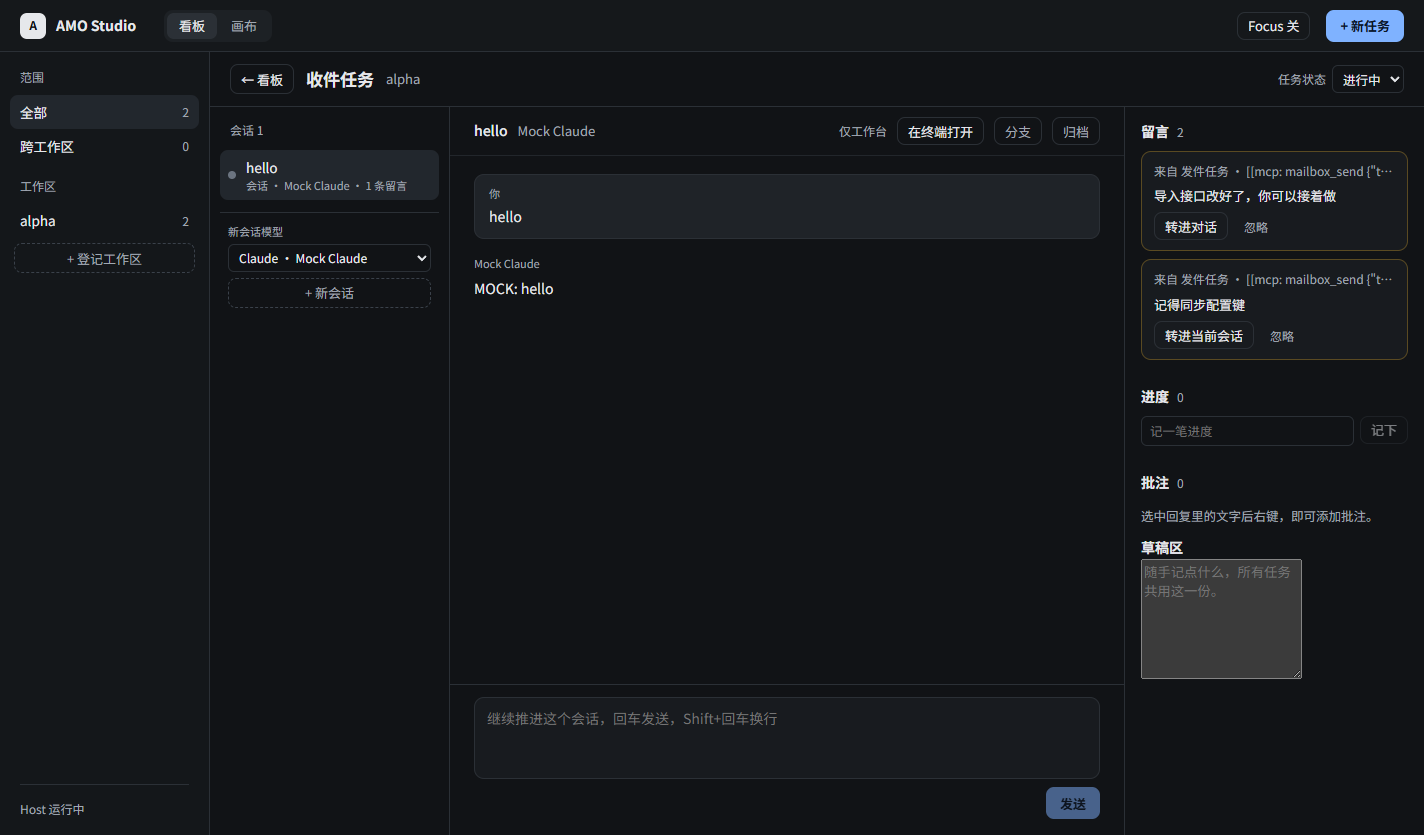
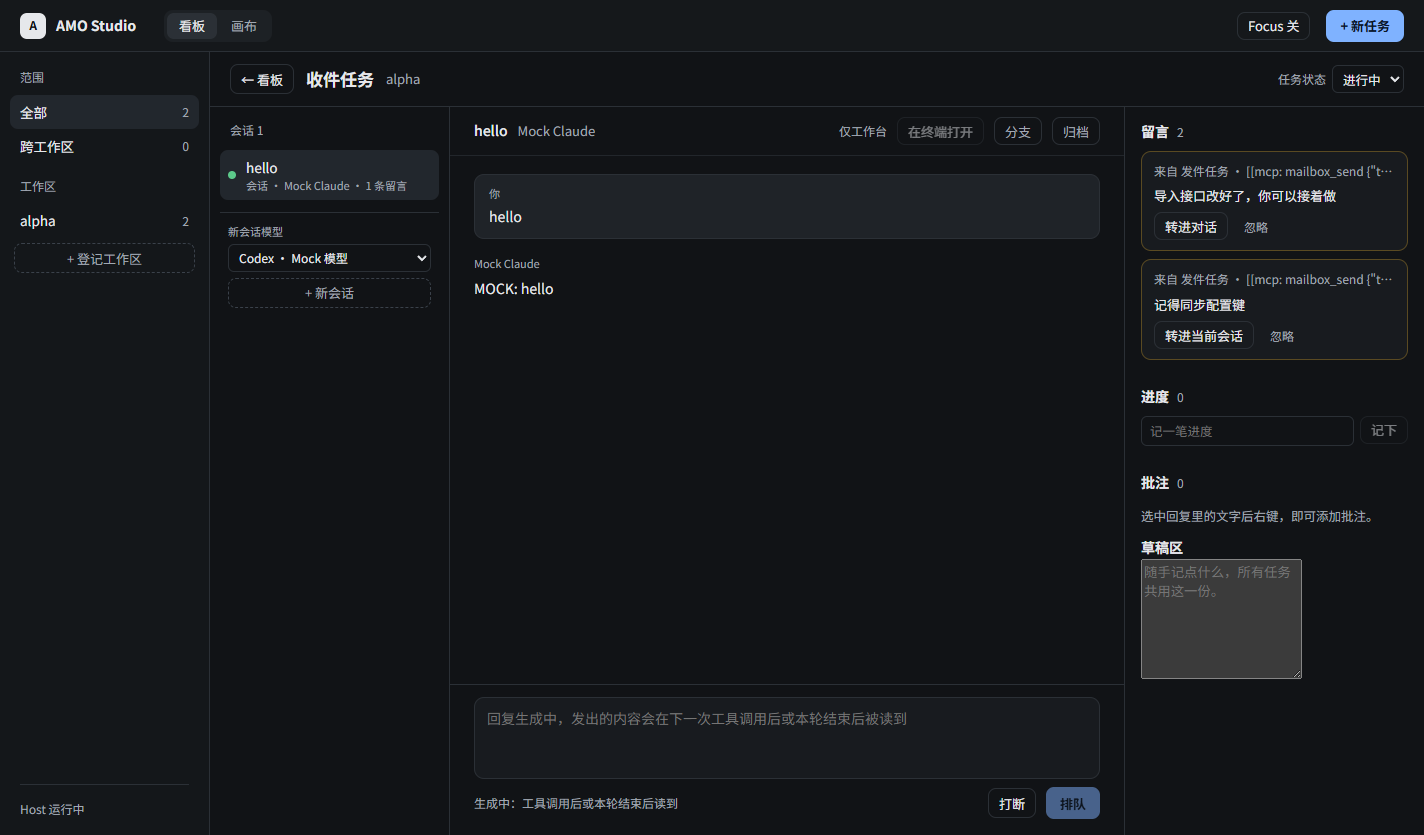
test(studio): stage 5 acceptance - Codex hands work to Claude through AMO mail (S5-07)
Also: the composer no longer wipes text typed while a send is pending;
the mock handles messages Claude folds into a turn after a tool call;
task_get returns the latest handoff and recent notes.

diff --git a/studio/e2e/tests/handoff-mail.spec.ts b/studio/e2e/tests/handoff-mail.spec.ts
@@ -1,0 +1,61 @@
+import { expect, test } from "@playwright/test";
+import type { MailMessage, Session, Task, TaskNote, Workspace } from "@amo-studio/protocol";
+import { launchStudio, screenshot, type Studio } from "./studio.js";
+
+// Stage 5 acceptance (ROADMAP): two sessions hand work over through AMO, at the person's pace.
+// A (Codex) submits a handoff summary and leaves mail for B (Claude); the person forwards the mail into B's
+// conversation; B reads A's handoff through the AMO MCP and records that it took over. Mock models only.
+
+let studio: Studio | undefined;
+
+test.afterEach(async () => {
+  await studio?.close();
+  studio = undefined;
+});
+
+test("a Codex session hands work to a Claude session through AMO mail", async () => {
+  studio = await launchStudio();
+  const { page } = studio;
+  const ws = await studio.api<Workspace>("POST", "/api/workspaces", { path: studio.workspace("alpha") });
+  const scope = { kind: "workspace", workspaceId: ws.id };
+  const summary = "交接：重试已加在 importer.ts，测试还没写，入口 tests/import";
+
+  // A finishes its part: a handoff summary on its own task.
+  const a = await studio.api<{ task: Task; session: Session }>("POST", "/api/tasks", {
+    title: "导入重试",
+    scope,
+    firstSession: { profileId: "codex-mock", text: `[[mcp: handoff_submit {"summary":"${summary}"}]]` },
+  });
+  await expect.poll(async () => (await studio!.api<TaskNote[]>("GET", `/api/tasks/${a.task.id}/notes`)).map((n) => n.kind), { timeout: 60_000 }).toEqual(["handoff"]);
+
+  // B exists; A leaves it a message pointing at the handoff.
+  const b = await studio.api<{ task: Task; session: Session }>("POST", "/api/tasks", { title: "补测试", scope, firstSession: { profileId: "claude-mock", text: "待命" } });
+  await studio.api("POST", `/api/sessions/${a.session.id}/messages`, {
+    text: `[[mcp: mailbox_send {"toSessionId":"${b.session.id}","text":"请接手补测试，交接摘要在任务 ${a.task.id}"}]]`,
+  });
+  await expect.poll(async () => (await studio!.api<MailMessage[]>("GET", `/api/mail?sessionId=${b.session.id}`)).length, { timeout: 60_000 }).toBe(1);
+
+  // Nothing reaches B until the person forwards it.
+  await page.getByTestId("task-card").filter({ hasText: "补测试" }).click();
+  await expect(page.getByTestId("msg-agent")).toHaveCount(1);
+  await expect(page.getByTestId("mail-card")).toContainText("请接手补测试");
+  await page.getByTestId("mail-card").getByRole("button", { name: "转进对话" }).click();
+  await expect(page.getByTestId("msg-agent").last()).toContainText("MOCK: [AMO 留言] 来自任务「导入重试」", { timeout: 60_000 });
+
+  // B reads A's handoff through the MCP, then records on its own task that it took over.
+  const composer = page.getByLabel("输入消息");
+  await composer.fill(`[[mcp: task_get {"taskId":"${a.task.id}"}]]`);
+  await composer.press("Enter");
+  // Wait for the MCP reply itself: A's session title (its first message) already quotes the summary.
+  await expect(page.getByTestId("msg-agent").last()).toContainText("MOCK-MCP:", { timeout: 60_000 });
+  await expect(page.getByTestId("msg-agent").last()).toContainText("重试已加在 importer.ts");
+  await composer.fill('[[mcp: task_note_add {"text":"已接手：按交接补 tests/import"}]]');
+  await composer.press("Enter");
+  await expect(page.getByTestId("task-note")).toContainText("已接手：按交接补 tests/import", { timeout: 60_000 });
+  await screenshot(studio.app, "stage-5", "S5-07-handoff", page);
+
+  // Each task keeps its own record; the mail is marked forwarded.
+  expect((await studio.api<TaskNote[]>("GET", `/api/tasks/${b.task.id}/notes`)).map((n) => [n.sessionId, n.text])).toEqual([[b.session.id, "已接手：按交接补 tests/import"]]);
+  expect((await studio.api<TaskNote[]>("GET", `/api/tasks/${a.task.id}/notes`)).map((n) => n.text)).toEqual([summary]);
+  expect((await studio.api<MailMessage[]>("GET", `/api/mail?sessionId=${b.session.id}`)).map((m) => m.state)).toEqual(["forwarded"]);
+});

diff --git a/studio/packages/ui/src/task/Thread.tsx b/studio/packages/ui/src/task/Thread.tsx
@@ -69,7 +69,7 @@ export function Thread({ session, items, annotations, model, busy, onApprove, on
   const claudeSub = session?.runtime === "claude" && session.kind === "sub";
   const readOnly = !session || claudeSub || session.writer === "archived" || session.writer === "terminal-handoff";
   const generating = !!session && (session.status === "running" || session.status === "awaiting-approval");
-  // Codex folds a message into the running turn; Claude runs it as the next turn.
+  // Codex steers the running turn at once; Claude reads it after the next tool call, or as the next turn.
   const queues = session?.runtime === "claude";
   const placeholder = readOnly
     ? claudeSub
@@ -79,14 +79,17 @@ export function Thread({ session, items, annotations, model, busy, onApprove, on
         : "会话已交给终端，工作台暂时只读。"
     : generating
       ? queues
-        ? "回复生成中，输入的内容会排到下一轮"
+        ? "回复生成中，发出的内容会在下一次工具调用后或本轮结束后被读到"
         : "回复生成中，输入的内容会作为插话发出"
       : "继续推进这个会话，回车发送，Shift+回车换行";
 
   async function send() {
     const text = draft.trim();
     if (!text || readOnly) return;
-    if (await onSend(text)) setDraft("");
+    // Clear at once so the next message can be typed while this one is on its way; put it back if sending failed
+    // (and nothing new was typed meanwhile). Clearing after the request would wipe what was typed in between.
+    setDraft("");
+    if (!(await onSend(text))) setDraft((d) => (d.trim() ? d : text));
   }
 
   return (
@@ -177,7 +180,7 @@ export function Thread({ session, items, annotations, model, busy, onApprove, on
             />
           </label>
           <div className="composer-bar">
-            <span className="composer-hint">{generating && !readOnly ? (queues ? "生成中：发送会排到下一轮" : "生成中：发送会插入到当前回合") : ""}</span>
+            <span className="composer-hint">{generating && !readOnly ? (queues ? "生成中：工具调用后或本轮结束后读到" : "生成中：发送会插入到当前回合") : ""}</span>
             <span className="spacer" />
             {generating && !readOnly && (
               <button type="button" className="btn-ghost" onClick={onInterrupt}>

diff --git a/studio/packages/host/src/mcp/read-model.ts b/studio/packages/host/src/mcp/read-model.ts
@@ -68,9 +68,15 @@ export class ReadModel {
     };
   }
 
-  /** One task: where it stands, what it depends on, its group on the canvas and its sessions (no transcripts). */
+  /**
+   * One task: its latest handoff summary (first: it is what a session taking over needs), where it stands, what it
+   * depends on, its group on the canvas, recent progress notes and its sessions (no transcripts).
+   */
   taskGet(taskId: Id) {
     const t = this.requireTask(taskId);
+    const notes = this.store.listTaskNotes(t.id);
+    const author = (sessionId: Id | null) => (sessionId ? this.store.getSession(sessionId)?.title || "会话" : "person");
+    const handoff = [...notes].reverse().find((n) => n.kind === "handoff");
     const canvas = this.service.canvas();
     const title = (id: Id) => this.store.getTask(id)?.title || "未命名任务";
     const node = canvas.nodes.find((n) => n.kind === "task" && n.taskId === t.id);
@@ -78,6 +84,7 @@ export class ReadModel {
     return {
       id: t.id,
       title: t.title || "未命名任务",
+      handoff: handoff ? { text: handoff.text, by: author(handoff.sessionId), at: handoff.createdAt } : null,
       column: t.column,
       status: this.status(t.id),
       workspace: this.where(t),
@@ -87,6 +94,7 @@ export class ReadModel {
       canvasGroup: group,
       dependsOn: canvas.edges.filter((e) => e.to === t.id).map((e) => ({ id: e.from, title: title(e.from) })),
       dependents: canvas.edges.filter((e) => e.from === t.id).map((e) => ({ id: e.to, title: title(e.to) })),
+      recentNotes: notes.filter((n) => n.kind === "progress").slice(-5).map((n) => ({ text: n.text, by: author(n.sessionId), at: n.createdAt })),
       sessions: this.live(t.id).map((s) => ({ id: s.id, kind: s.kind, parentId: s.parentId, title: s.title, status: s.status, model: this.model(s.profileId) })),
     };
   }

diff --git a/studio/packages/testkit/src/mock-anthropic.test.ts b/studio/packages/testkit/src/mock-anthropic.test.ts
@@ -32,6 +32,18 @@ describe("mock Anthropic request parsing", () => {
     expect(defaultClaudeScript(req)).toEqual({ kind: "text", text: "MOCK-DONE" });
   });
 
+  it("treats a message folded in with a tool result as what the person said last", () => {
+    const req = parseClaudeRequest({
+      tools,
+      messages: [
+        { role: "user", content: "[[shell: mkdir x]]" },
+        { role: "assistant", content: [{ type: "tool_use", id: "t1", name: "Bash", input: {} }] },
+        { role: "user", content: [{ type: "tool_result", tool_use_id: "t1", content: "ok" }, { type: "text", text: "now the next thing" }] },
+      ],
+    });
+    expect(req).toMatchObject({ lastUserText: "now the next thing", afterToolOutput: false });
+  });
+
   it("recognises a subagent by its first message, and makes no tool call without the tool", () => {
     const sub = parseClaudeRequest({ tools: [{ name: "Bash" }], messages: [{ role: "user", content: [reminder, { type: "text", text: "[[subagent: helper]] say hi" }] }] });
     expect(defaultClaudeScript(sub)).toEqual({ kind: "text", text: "MOCK-SUB: helper" });

diff --git a/studio/packages/testkit/src/mock-anthropic.ts b/studio/packages/testkit/src/mock-anthropic.ts
@@ -122,7 +122,9 @@ export function parseClaudeRequest(body: Record<string, unknown>): ClaudeMockReq
   const messages = (Array.isArray(body.messages) ? body.messages : []) as Message[];
   const users = messages.filter((m) => m.role === "user");
   const hasToolResult = (m: Message) => m.role === "user" && blocksOf(m).some((b) => b.type === "tool_result");
-  const isPerson = (m: Message) => m.role === "user" && !hasToolResult(m) && !!personText(m);
+  // A message sent while a turn runs is folded in after the next tool call: it shares the user message with the tool
+  // result, and is then what the person last said (so it wins over "continuing after a tool").
+  const isPerson = (m: Message) => m.role === "user" && !!personText(m);
   // The CLI may append context messages after a tool result, so "continuing after a tool" means: a tool result came
   // after the last thing the person said, not that the very last message is one.
   const lastPersonIndex = messages.findLastIndex(isPerson);

diff --git a/studio/e2e/tests/claude.spec.ts b/studio/e2e/tests/claude.spec.ts
@@ -44,7 +44,7 @@ test("a Claude session: approve a command, queue a message, branch, follow a sub
   await composer.fill("[[slow]]");
   await composer.press("Enter");
   await expect(page.getByRole("button", { name: "排队" })).toBeVisible({ timeout: 30_000 });
-  await expect(page.locator(".composer-hint")).toHaveText("生成中：发送会排到下一轮");
+  await expect(page.locator(".composer-hint")).toHaveText("生成中：工具调用后或本轮结束后读到");
   await composer.fill("after the slow one");
   await page.getByRole("button", { name: "排队" }).click();
   await expect(page.getByTestId("msg-agent").last()).toContainText("MOCK: after the slow one", { timeout: 60_000 });

diff --git a/studio/packages/host/src/mcp/tools.ts b/studio/packages/host/src/mcp/tools.ts
@@ -185,7 +185,7 @@ export function amoTools(model: ReadModel): AmoTool[] {
     {
       name: "task_get",
       title: "任务详情",
-      description: "One task: column, status, workspace, the tasks it depends on and that depend on it, its canvas group and its sessions (no transcripts).",
+      description: "One task: its latest handoff summary, column, status, workspace, the tasks it depends on and that depend on it, its canvas group, recent progress notes and its sessions (no transcripts).",
       inputSchema: { taskId: z.string() },
       readOnly: true,
       autoApprove: true,

diff --git a/studio/LOOP_LOG.md b/studio/LOOP_LOG.md
@@ -696,3 +696,22 @@
 - 验证：`npm run verify` 退出码 0（180 个测试）；e2e 30/30
 - 额度：0
 - commit：见本次 commit
+
+## 2026-10-14 03:10 · S5-07 交接验收（阶段 5 的验收）
+- 结果：done
+- e2e `handoff-mail.spec.ts`：
+  - Codex 会话 A 提交交接摘要，并给 Claude 会话 B 留言；
+  - 留言在人转进对话之前不会进入 B；人转进后，B 用 `task_get` 读到 A 的交接，再用 `task_note_add` 在自己的任务上记"已接手"；
+  - 两个任务各自的记录正确，留言状态为"已转进对话"；
+  - 截图 `screenshots/stage-5/S5-07-handoff.png`
+- 改动：`task_get` 返回最新交接摘要（放在前面）和最近 5 条进度备注
+- 调试中查出并修复两个问题（在 Host 里临时加日志、界面监听请求，调试代码已全部删除）：
+  - **对话输入框会吞掉新打的字**：输入框要等发送请求返回才清空，期间新打的内容会被一起清掉。改为按下发送就清空，失败时（而且期间没有新输入）再把文字放回去。用户可见的问题；
+  - **mock 没处理"并进回合的消息"**：回合里有工具调用时，Claude CLI 会把生成中发的消息放在工具结果后面、同一条用户消息里，并进当前回合。mock 把整条当成工具输出，忽略了那段话。已修，加了单测
+- 更正：
+  - `spikes/RESULTS.md` 第 h 节：S4-00 写的"生成中发的消息不会插进当前回合"只在没有工具调用时成立；
+  - Claude 会话的提示改为"生成中：工具调用后或本轮结束后读到"（原来是"排到下一轮"），按钮仍是"排队"
+- 测试本身的问题：第一版等待"回复里出现交接摘要"，但 A 会话的标题就是它带摘要的第一条消息，转进来的留言回复里已经有这段文字，等待提前满足，下一条消息发得太早。改为先等 MCP 回复（`MOCK-MCP:`）
+- 验证：`npm run verify` 退出码 0（181 个测试）；e2e 31/31
+- 额度：0
+- commit：见本次 commit

diff --git a/studio/spikes/RESULTS.md b/studio/spikes/RESULTS.md
@@ -52,7 +52,7 @@
 | 分支 | `resume` + `forkSession: true` 得到新 session id，带着原会话上下文回复。另有不调模型的 `forkSession(sessionId, { upToMessageId })` 函数，可以只复制到某条消息为止——适合"从这条回复分支"；但它在 Host 进程里运行，读的是**进程自己的** `CLAUDE_CONFIG_DIR`，不认 `options.env`。 |
 | 子 agent | 工具名 `Agent`。子 agent 的消息带 `parent_tool_use_id`（等于父会话里那次 `Agent` 调用的 id），session id 和父会话相同；另有 `system:task_started` / `task_updated` / `task_notification` 事件。 |
 | 打断 | `query.interrupt()` 后结果为 `error_during_execution`，随后迭代器**抛出异常**（`Claude Code returned an error result`）。 |
-| 插话 | 流式输入里在生成中途推入第二条消息，**不会**插进当前回合：第一轮照常数到 40 结束，第二条作为下一轮处理（共两个 `result`）。 |
+| 插话 | 流式输入里在生成中途推入第二条消息：回合里**没有工具调用**时不会插进当前回合，第一轮照常数到 40 结束，第二条作为下一轮处理（共两个 `result`）。**S5-07 补充**：回合里**有**工具调用时，它会在下一次工具调用结束后，和工具结果放在同一条用户消息里并进当前回合。 |
 | 真实 CLI 接续 | 同一 `CLAUDE_CONFIG_DIR` 下 `claude -p --resume <id>` 接上 SDK 创建的会话，session id 相同，记得上文。 |
 | 共享方式 | `claude --help` 里有 `--bg`（后台会话）、`claude attach <id>`、`agents`、`logs`、`stop`。未实测，S4-05 再评估能否用作共享。 |
 

diff --git a/studio/STATUS.md b/studio/STATUS.md
@@ -7,6 +7,6 @@
 - **已完成**：阶段 0、阶段 1（地基）、阶段 2（审阅）、阶段 3（画布与 Focus）、阶段 4（Claude 与只读 MCP）
 - **在等你**：见 `NEEDS_YOU.md`，10 项"请你过目"（都不阻塞）、1 项"必须等你"（是否切换为日常工具、何时删除旧 AMO；等待期间继续推进）
 - **试用**：`studio` 下 `npm start`；停止 Host 用 `npm run host:stop`
-- **已完成任务**：S5-00 预研 Codex 调用者身份、S5-01 协作数据、S5-02 写自身的 MCP 工具、S5-03 信箱、S5-04 请求决策、S5-05 画布写入、S5-06 工作台显示
-- **下一步**：S5-07 两个会话通过信箱交接的端到端测试
+- **已完成任务**：S5-00 预研 Codex 调用者身份、S5-01 协作数据、S5-02 写自身的 MCP 工具、S5-03 信箱、S5-04 请求决策、S5-05 画布写入、S5-06 工作台显示、S5-07 交接验收
+- **下一步**：S5-08 真实冒烟（GLM 与 DeepSeek）
 - **模型调用额度**：DeepSeek 22 / 1000，GLM 16 / 5000

diff --git a/studio/plans/stage-5.md b/studio/plans/stage-5.md
@@ -54,7 +54,7 @@
 - 内容：任务页显示进度备注和交接摘要；看板卡片上的未读留言和待决策提示（遵守"一个状态只显示一次"）。
 - 验收：e2e 与截图。
 
-### S5-07 交接的端到端测试 · todo
+### S5-07 交接的端到端测试 · done
 - 依赖：S5-02～S5-06
 - 内容：两个会话（一个 Codex、一个 Claude）通过信箱完成一次交接：A 提交交接摘要并给 B 留言，人把留言转进 B 的对话，B 读到并继续。
 - 验收：ROADMAP 阶段 5 的验收。
